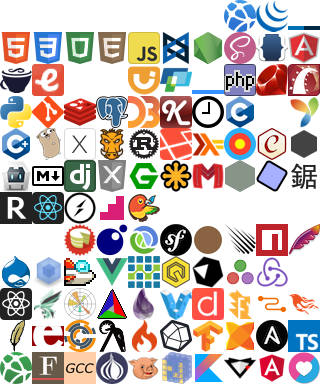
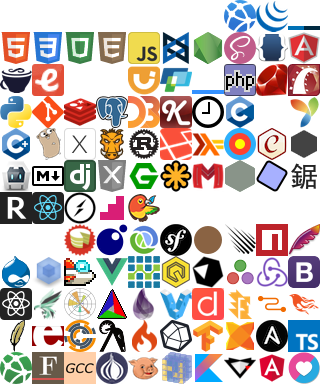
Add Bootstrap 3 documentation

Changed region(s): [[0.875, 0.6562, 1.0, 0.75]]

diff --git a/assets/stylesheets/pages/_bootstrap.scss b/assets/stylesheets/pages/_bootstrap.scss
@@ -1,0 +1,62 @@
+._bsv3  {
+  @extend %simple;
+
+  h4 > code, h5 > code { @extend %label; }
+
+  h2 > small {
+    color: $textColorLight;
+    float: right;
+  }
+
+  .bs-callout { @extend %note; }
+  .bs-callout-info { @extend %note-blue; }
+  .bs-callout-danger { @extend %note-red; }
+  .bs-callout > h4, .bs-callout > h5 { margin-top: .25rem; }
+
+  .text-danger { @extend %label, %label-red; }
+
+  .bs-example {
+    padding: .375rem .625rem;
+    line-height: 1.5;
+    @extend %heading-box;
+  }
+
+  div.bs-example {
+    border-bottom-left-radius: 0;
+    border-bottom-right-radius: 0;
+
+    + pre {
+      border-top-left-radius: 0;
+      border-top-right-radius: 0;
+      border-top: 0;
+      margin-top: 0;
+    }
+  }
+
+  a.thumbnail {
+    display: block;
+    padding: .25em;
+    @extend %box;
+
+    &:after { content: none; }
+    + h4 { margin: .75em 0 .5em; }
+    > img { display: block; }
+  }
+
+  .col { margin-bottom: 1.5em; }
+
+  @media (min-width: 800px) {
+    .row {
+      display: flex;
+      flex-wrap: wrap;
+    }
+
+    .col {
+      flex: 0 1 auto;
+      padding: 0 1em;
+      width: 33.33%;
+      -moz-box-sizing: border-box;
+           box-sizing: border-box;
+    }
+  }
+}

diff --git a/assets/stylesheets/global/_icons.scss b/assets/stylesheets/global/_icons.scss
@@ -133,6 +133,7 @@
 ._icon-crystal:before       { background-position: -6rem -8rem; @extend %darkIconFix !optional; }
 ._icon-julia:before         { background-position: -7rem -8rem; @extend %darkIconFix !optional; }
 ._icon-redux:before         { background-position: -8rem -8rem; @extend %darkIconFix !optional; }
+._icon-bootstrap:before     { background-position: -9rem -8rem; }
 ._icon-react_native:before  { background-position: 0 -9rem; }
 ._icon-phalcon:before       { background-position: -1rem -9rem; }
 ._icon-matplotlib:before    { background-position: -2rem -9rem; }

diff --git a/assets/stylesheets/pages/_simple.scss b/assets/stylesheets/pages/_simple.scss
@@ -12,7 +12,7 @@
     h1, h2, h3 { margin-left: 0; }
   }
 
-  p > code, li > code { @extend %label; }
+  p > code, li > code, td > code { @extend %label; }
   blockquote { @extend %note; }
   blockquote > h4, blockquote > h5 { margin-top: .25rem; }
 }

diff --git a/assets/stylesheets/application-dark.css.scss b/assets/stylesheets/application-dark.css.scss
@@ -34,6 +34,7 @@
         'pages/angular',
         'pages/angularjs',
         'pages/apache',
+        'pages/bootstrap',
         'pages/bower',
         'pages/c',
         'pages/cakephp',

diff --git a/assets/stylesheets/application.css.scss b/assets/stylesheets/application.css.scss
@@ -34,6 +34,7 @@
         'pages/angular',
         'pages/angularjs',
         'pages/apache',
+        'pages/bootstrap',
         'pages/bower',
         'pages/c',
         'pages/cakephp',

diff --git a/lib/docs/filters/bootstrap/clean_html_v3.rb b/lib/docs/filters/bootstrap/clean_html_v3.rb
@@ -1,0 +1,64 @@
+module Docs
+  class Bootstrap
+    class CleanHtmlV3Filter < Filter
+      def call
+        at_css('div[role=main]').child.before(at_css('#content .container').inner_html)
+        @doc = at_css('div[role=main]')
+
+        css('h1, h2, h3, h4, h5').each do |node|
+          node.name = node.name.sub(/\d/) { |i| i.to_i + 1 }
+        end
+        at_css('h2').name = 'h1'
+
+        css('hr', '.zero-clipboard', '.modal', '.panel-group').remove
+
+        css('.bs-docs-section', '.table-responsive').each do |node|
+          node.before(node.children).remove
+        end
+
+        css('> .show-grid', '.bs-example', '.bs-glyphicons', '.responsive-utilities-test').each do |node|
+          if node.previous_element['class'].try(:include?, 'bs-example')
+            node.remove
+          else
+            node.content = ''
+            node.name = 'p'
+            node['class'] = 'bs-example'
+            node.remove_attribute('data-example-id')
+            prev = node.previous_element
+            prev = prev.previous_element until prev['id']
+            node.inner_html = %(<a href="#{current_url}/##{prev['id']}">Open example on getbootstrap.com</a>)
+          end
+        end
+
+        css('.bs-example + figure').each do |node|
+          node.previous_element.name = 'div'
+        end
+
+        css('div[class*="col-"]').each do |node|
+          node['class'] = 'col'
+        end
+
+        css('.__cf_email__').each do |node|
+          node.replace(decode_cloudflare_email(node['data-cfemail']))
+        end
+
+        css('figure.highlight').each do |node|
+          code = node.at_css('code')
+          node['data-language'] = code['data-lang']
+          node.content = code.content
+          node.name = 'pre'
+        end
+
+        css('table, tr, td, th, pre').each do |node|
+          node.remove_attribute('class')
+        end
+
+        css('thead td:empty').each do |node|
+          node.name = 'th'
+        end
+
+        doc
+      end
+    end
+  end
+end

diff --git a/lib/docs/filters/bootstrap/entries_v3.rb b/lib/docs/filters/bootstrap/entries_v3.rb
@@ -1,0 +1,65 @@
+module Docs
+  class Bootstrap
+    class EntriesV3Filter < Docs::EntriesFilter
+      def get_name
+        at_css('h1').content
+      end
+
+      def get_type
+        name
+      end
+
+      def additional_entries
+        return [] if root_page?
+        entries = []
+
+        css('.bs-docs-sidenav > li').each do |node|
+          link = node.at_css('a')
+          name = link.content
+          next if IGNORE_ENTRIES.include?(name)
+
+          id = link['href'].remove('#')
+          entries << [name, id]
+          next if name =~ /Sass|Less|Glyphicons/
+
+          node.css('> ul > li > a').each do |link|
+            n = link.content
+            next if n.start_with?('Ex: ') || n.start_with?('Default ') || n =~ /example/i || IGNORE_ENTRIES.include?(n)
+            id = link['href'].remove('#')
+            n.downcase!
+            n.prepend "#{name}: "
+            entries << [n, id]
+          end
+        end
+
+        %w(modals dropdowns scrollspy tabs tooltips popovers alerts buttons collapse carousel affix).each do |dom_id|
+          css("##{dom_id}-options + p + div tbody td:first-child").each do |node|
+            name = node.content.strip
+            id = node.parent['id'] = "#{dom_id}-#{name.parameterize}-option"
+            name.prepend "#{dom_id.singularize.titleize}: "
+            name << ' (option)'
+            entries << [name, id]
+          end
+
+          css("##{dom_id}-methods ~ h4 code").each do |node|
+            next unless name = node.content[/\('(\w+)'\)/, 1]
+            id = node.parent['id'] = "#{dom_id}-#{name.parameterize}-method"
+            name.prepend "#{dom_id.singularize.titleize}: "
+            name << ' (method)'
+            entries << [name, id]
+          end
+        end
+
+        entries
+      end
+
+      IGNORE_ENTRIES = %w(
+        Overview
+        Introduction
+        Usage
+        Methods
+        Options
+      )
+    end
+  end
+end

diff --git a/lib/docs/scrapers/bootstrap.rb b/lib/docs/scrapers/bootstrap.rb
@@ -1,0 +1,33 @@
+module Docs
+  class Bootstrap < UrlScraper
+    options[:attribution] = <<-HTML
+      &copy; 2011&ndash;2016 Twitter, Inc.<br>
+      Code licensed under the MIT License.<br>
+      Documentation licensed under the Creative Commons Attribution License v3.0.
+    HTML
+
+    version '3' do
+      self.type = 'bsv3'
+      self.release = '3.3.7'
+      self.base_url = 'https://getbootstrap.com/'
+      self.root_path = 'getting-started'
+      self.links = {
+        home: 'https://getbootstrap.com/',
+        code: 'https://github.com/twbs/bootstrap'
+      }
+
+      html_filters.push 'bootstrap/entries_v3', 'bootstrap/clean_html_v3'
+
+      options[:trailing_slash] = false
+      options[:only] = %w(getting-started css components javascript)
+    end
+
+    private
+
+    def handle_response(response)
+      response.effective_url.scheme = 'https'
+      response.effective_url.path = response.effective_url.path.remove(/\/\z/)
+      super
+    end
+  end
+end
